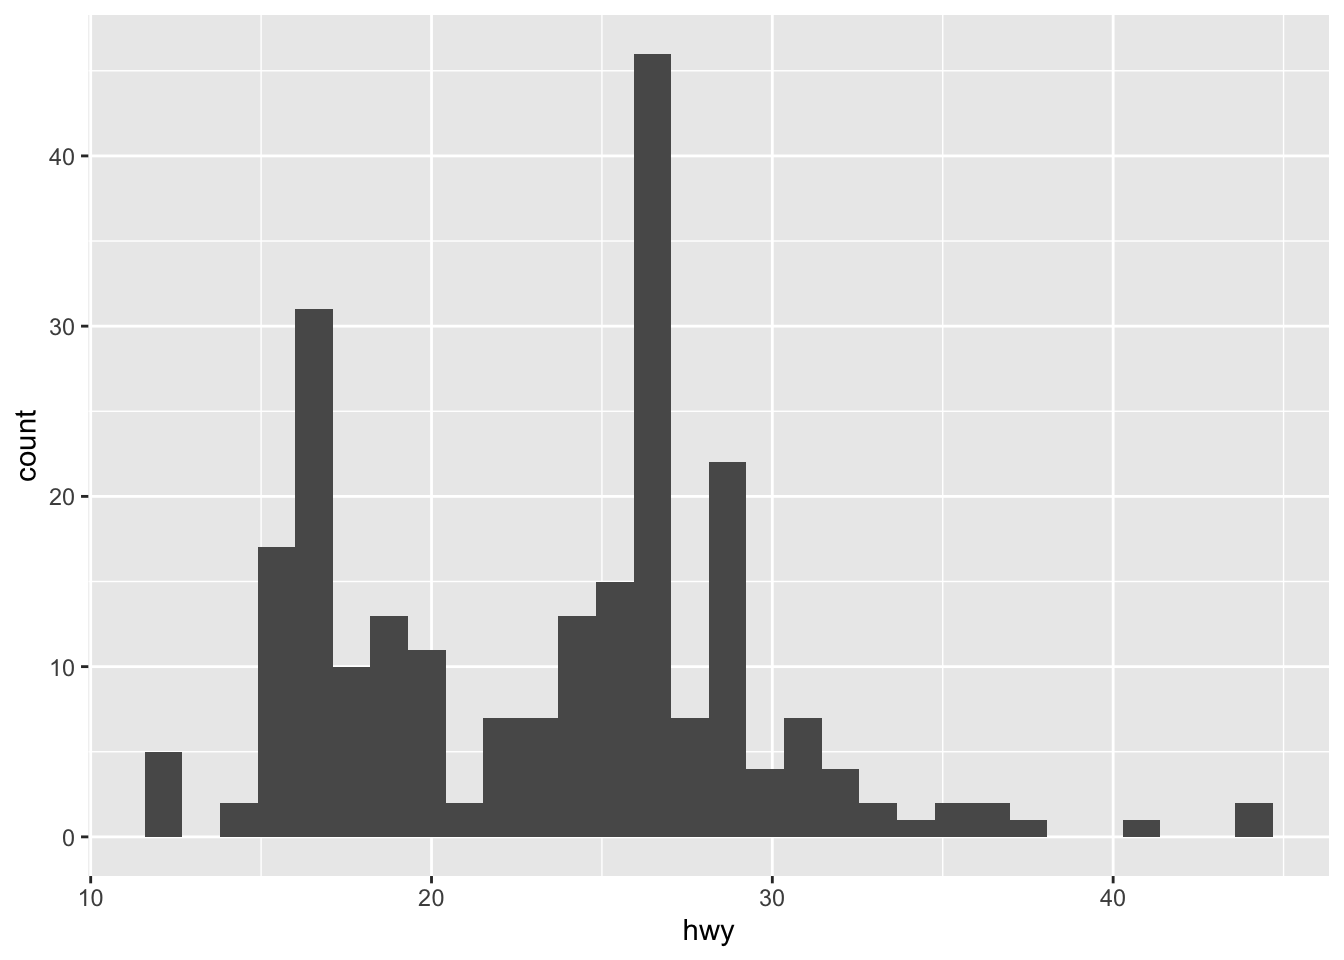
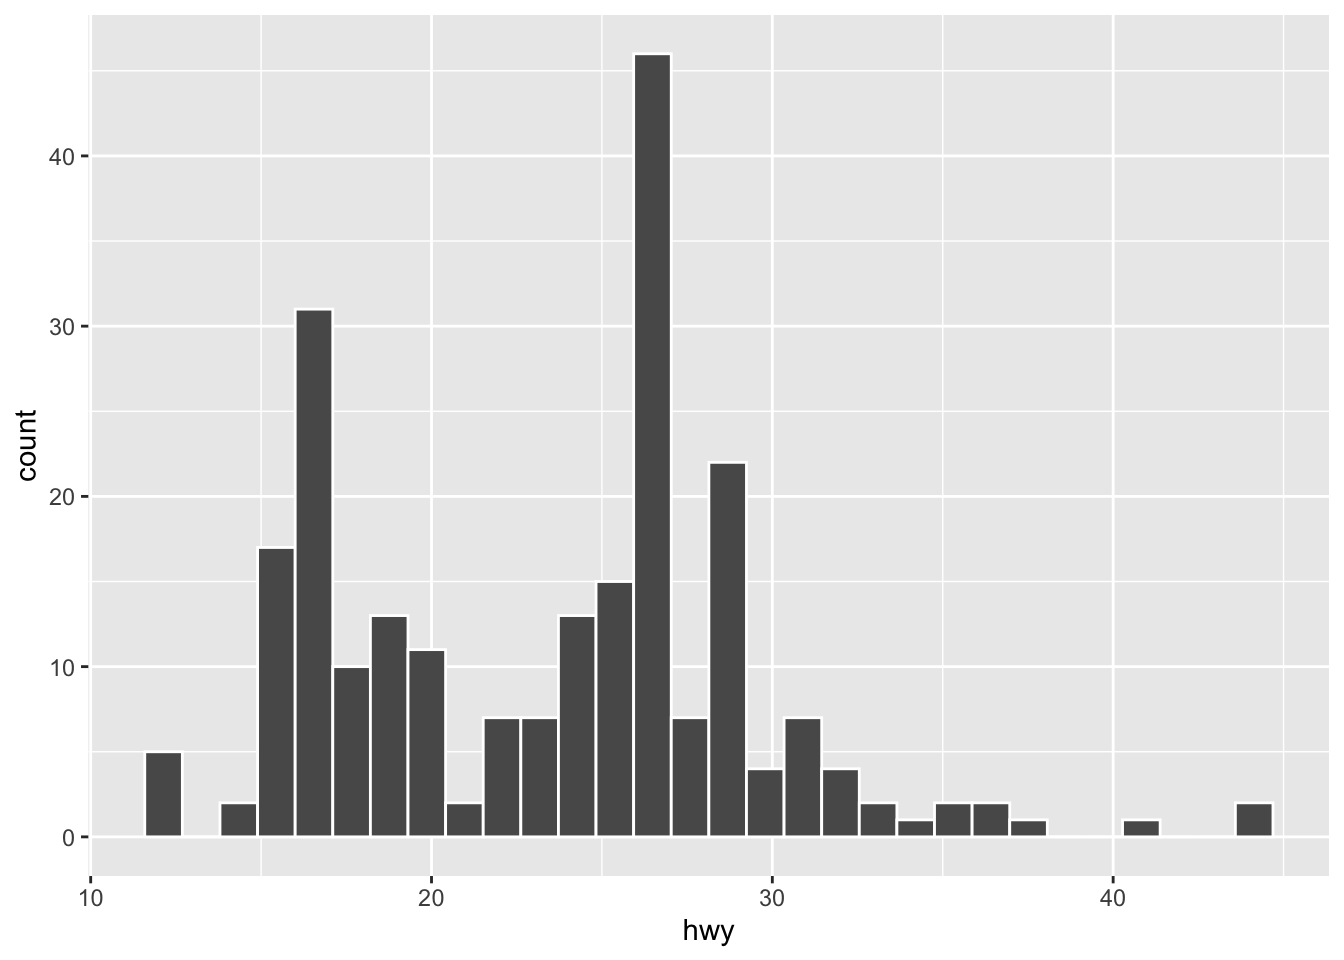
zigzag

diff --git a/docs/functions.html b/docs/functions.html
@@ -24,7 +24,7 @@
 <meta name="author" content="Alvin Chen (陳正賢）" />
 
 
-<meta name="date" content="2021-10-21" />
+<meta name="date" content="2021-10-23" />
 
   <meta name="viewport" content="width=device-width, initial-scale=1" />
   <meta name="apple-mobile-web-app-capable" content="yes" />
@@ -609,7 +609,7 @@ code span.wa { color: #60a0b0; font-weight: bold; font-style: italic; } /* Warni
 <p>In R, there are many built-in functions that return values:</p>
 <div class="sourceCode" id="cb11"><pre class="sourceCode r Rchunk"><code class="sourceCode r"><span id="cb11-1"><a href="functions.html#cb11-1" aria-hidden="true" tabindex="-1"></a>num <span class="ot">&lt;-</span> <span class="fu">sample</span>(<span class="dv">1</span><span class="sc">:</span><span class="dv">10</span>, <span class="dv">3</span>)</span>
 <span id="cb11-2"><a href="functions.html#cb11-2" aria-hidden="true" tabindex="-1"></a>num</span></code></pre></div>
-<pre class="Rout"><code>[1]  4  6 10</code></pre>
+<pre class="Rout"><code>[1] 10  9  1</code></pre>
 <p>When a function returns nothing, by default the return value of the function is <code>NULL</code>, which is a unique data type in R referring to <code>NoneType</code>.</p>
 <div class="sourceCode" id="cb13"><pre class="sourceCode r Rchunk"><code class="sourceCode r"><span id="cb13-1"><a href="functions.html#cb13-1" aria-hidden="true" tabindex="-1"></a>out <span class="ot">&lt;-</span> <span class="fu">cat</span>(<span class="st">&quot;This is a sentence&quot;</span>)  <span class="co"># `cat()` has no return</span></span></code></pre></div>
 <pre class="Rout"><code>This is a sentence</code></pre>
@@ -826,54 +826,13 @@ out</code></pre>
 <div class="sourceCode" id="cb66"><pre class="sourceCode r Rchunk"><code class="sourceCode r"><span id="cb66-1"><a href="functions.html#cb66-1" aria-hidden="true" tabindex="-1"></a><span class="fu">myLog</span>(<span class="dv">8</span>, <span class="st">&quot;2&quot;</span>)</span></code></pre></div>
 <pre class="Rout"><code>[1] &quot;x/myBase needs to be a positive number not a string&quot;</code></pre>
 <div class="exercise">
-<p><span id="exr:unlabeled-div-3" class="exercise"><strong>Exercise 6.3  </strong></span>Create a function that produces a simple animation, i.e., the zigzag outputs as shown below. The function will create a back-and-forth zigzag pattern with the laps and the indent size as the parameters of the function. Alternatively, users can stop the animation anytime by pressing CTRL+C.</p>
+<p><span id="exr:unlabeled-div-3" class="exercise"><strong>Exercise 6.3  </strong></span>Create a function that produces a simple animation, i.e., the zigzag outputs as shown below. The function will <strong>slowly</strong> create a back-and-forth zigzag pattern with the laps and the indent size as the parameters of the function. Alternatively, users can stop the animation anytime by pressing CTRL+C.</p>
 </div>
-<div class="sourceCode" id="cb68"><pre class="sourceCode r Rchunk"><code class="sourceCode r"><span id="cb68-1"><a href="functions.html#cb68-1" aria-hidden="true" tabindex="-1"></a><span class="fu">zigzag</span>(<span class="at">lap =</span> <span class="dv">3</span>, <span class="at">indent_max =</span> <span class="dv">5</span>)</span></code></pre></div>
-<pre class="Rout"><code> ***** 
-  ***** 
-    ***** 
-      ***** 
-        ***** 
-          ***** 
-        ***** 
-      ***** 
-    ***** 
-  ***** 
- ***** 
-  ***** 
-    ***** 
-      ***** 
-        ***** 
-          ***** 
-        ***** 
-      ***** 
-    ***** 
-  ***** 
- ***** 
-  ***** 
-    ***** 
-      ***** 
-        ***** 
-          ***** 
-        ***** 
-      ***** 
-    ***** 
-  ***** </code></pre>
+<div class="sourceCode" id="cb68"><pre class="sourceCode r Rchunk"><code class="sourceCode r"><span id="cb68-1"><a href="functions.html#cb68-1" aria-hidden="true" tabindex="-1"></a><span class="fu">zigzag</span>(<span class="at">lap =</span> <span class="dv">5</span>, <span class="at">indent_max =</span> <span class="dv">10</span>)</span></code></pre></div>
+<p><img src="images/zigzag.gif" /><!-- --></p>
 <ul>
-<li>Also, the user can interrupt the program/function by pressing CTRL+C and your function should stop properly (using <code>tryCatch</code>).</li>
+<li>Please note that the user can interrupt the program/function by pressing CTRL+C and your function should stop properly (using <code>tryCatch</code>).</li>
 </ul>
-<pre><code>&gt; zigzag(lap = 3, indent_max = 5)
- ***** 
-  ***** 
-    ***** 
-      ***** 
-        ***** 
-          ***** 
-        ***** 
-      ***** 
-    ***** 
-  ***** 
-[1] &quot;Program interrupted!!&quot;</code></pre>
 <div class="exercise">
 <p><span id="exr:unlabeled-div-4" class="exercise"><strong>Exercise 6.4  </strong></span>Create a simple function to play rock, paper, scissors with the user.</p>
 <p>Your program should achieve the following:</p>

diff --git a/docs/data-visualization.html b/docs/data-visualization.html
@@ -1267,7 +1267,7 @@ x_shape
 <span id="cb11-6"><a href="data-visualization.html#cb11-6" aria-hidden="true" tabindex="-1"></a>  <span class="fu">scale_x_continuous</span>(<span class="at">breaks=</span><span class="fu">seq</span>(<span class="dv">10</span>,<span class="dv">46</span>,<span class="dv">1</span>))</span></code></pre></div>
 <p><img src="Programming_Linguistics_bookdown_files/figure-html/unnamed-chunk-16-2.png" width="672" /></p>
 <div class="sourceCode" id="cb12"><pre class="sourceCode r Rchunk"><code class="sourceCode r"><span id="cb12-1"><a href="data-visualization.html#cb12-1" aria-hidden="true" tabindex="-1"></a><span class="do">## You can check the min or max of each bin</span></span>
-<span id="cb12-2"><a href="data-visualization.html#cb12-2" aria-hidden="true" tabindex="-1"></a>g <span class="ot">&lt;-</span> <span class="fu">ggplot</span>(<span class="at">data =</span> mpg, <span class="fu">aes</span>(hwy)) <span class="sc">+</span> <span class="fu">geom_histogram</span>()</span>
+<span id="cb12-2"><a href="data-visualization.html#cb12-2" aria-hidden="true" tabindex="-1"></a>g <span class="ot">&lt;-</span> <span class="fu">ggplot</span>(<span class="at">data =</span> mpg, <span class="fu">aes</span>(hwy)) <span class="sc">+</span> <span class="fu">geom_histogram</span>(<span class="at">color=</span><span class="st">&quot;white&quot;</span>)</span>
 <span id="cb12-3"><a href="data-visualization.html#cb12-3" aria-hidden="true" tabindex="-1"></a>g</span></code></pre></div>
 <p><img src="Programming_Linguistics_bookdown_files/figure-html/unnamed-chunk-16-3.png" width="672" /></p>
 <div class="sourceCode" id="cb13"><pre class="sourceCode r Rchunk"><code class="sourceCode r"><span id="cb13-1"><a href="data-visualization.html#cb13-1" aria-hidden="true" tabindex="-1"></a><span class="fu">ggplot_build</span>(g)<span class="sc">$</span>data[[<span class="dv">1</span>]]<span class="sc">$</span>xmin</span></code></pre></div>
@@ -1289,8 +1289,8 @@ x_shape
 </ul>
 <div class="sourceCode" id="cb17"><pre class="sourceCode r Rchunk"><code class="sourceCode r"><span id="cb17-1"><a href="data-visualization.html#cb17-1" aria-hidden="true" tabindex="-1"></a><span class="fu">ggplot</span>(<span class="at">data =</span> mpg, <span class="fu">aes</span>(<span class="at">x =</span> class)) <span class="sc">+</span> </span>
 <span id="cb17-2"><a href="data-visualization.html#cb17-2" aria-hidden="true" tabindex="-1"></a>  <span class="fu">geom_bar</span>()</span></code></pre></div>
-<p><img src="Programming_Linguistics_bookdown_files/figure-html/unnamed-chunk-18-1.png" width="672" />
-When creating the bar plot, we can also use the normalized frequencies of each category, instead of the raw frequency counts. Any idea?</p>
+<p><img src="Programming_Linguistics_bookdown_files/figure-html/unnamed-chunk-18-1.png" width="672" /></p>
+<p>When creating the bar plot, we can also use the normalized frequencies of each category, instead of the raw frequency counts. Any idea?</p>
 <p><img src="Programming_Linguistics_bookdown_files/figure-html/unnamed-chunk-19-1.png" width="672" /></p>
 
 <div class="exercise">
